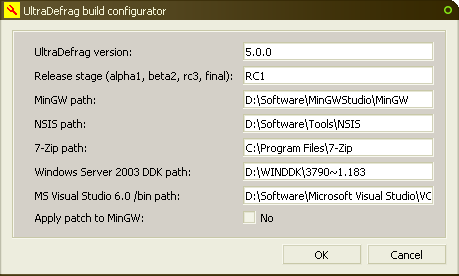
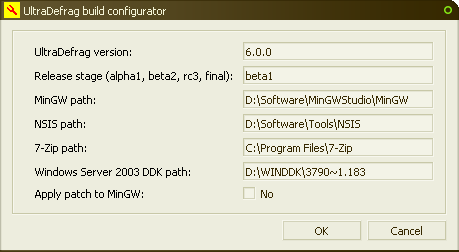
MS Visual Studio 6.0 development environment support dropped

diff --git a/src/gui/shutdown.c b/src/gui/shutdown.c
@@ -30,8 +30,7 @@
 */
 
 #include "main.h"
-
-typedef BOOLEAN (WINAPI *SET_SUSPEND_STATE_PROC)(BOOLEAN Hibernate,BOOLEAN ForceCritical,BOOLEAN DisableWakeEvent);
+#include <powrprof.h>
 
 /**
  * @brief Adjusts position of controls inside
@@ -313,8 +312,6 @@ int ShutdownOrHibernate(void)
 {
     HANDLE hToken; 
     TOKEN_PRIVILEGES tkp;
-    HMODULE hPowrProfDll;
-    SET_SUSPEND_STATE_PROC pSetSuspendState = NULL;
     BOOL result;
 
     switch(when_done_action){
@@ -354,26 +351,10 @@ int ShutdownOrHibernate(void)
     * is more reliable than SetSystemPowerState:
     * http://msdn.microsoft.com/en-us/library/aa373206%28VS.85%29.aspx
     */
-    if(when_done_action == IDM_WHEN_DONE_STANDBY || when_done_action == IDM_WHEN_DONE_HIBERNATE){
-        hPowrProfDll = LoadLibrary("powrprof.dll");
-        if(hPowrProfDll == NULL){
-            WgxDbgPrintLastError("ShutdownOrHibernate: cannot load powrprof.dll");
-        } else {
-            pSetSuspendState = (SET_SUSPEND_STATE_PROC)GetProcAddress(hPowrProfDll,"SetSuspendState");
-            if(pSetSuspendState == NULL)
-                WgxDbgPrintLastError("ShutdownOrHibernate: cannot get SetSuspendState address inside powrprof.dll");
-        }
-        if(pSetSuspendState == NULL)
-            WgxDbgPrint("Therefore SetSystemPowerState API will be used instead of SetSuspendState.\n");
-    }
-
     switch(when_done_action){
     case IDM_WHEN_DONE_STANDBY:
         /* suspend, request permission from apps and drivers */
-        if(pSetSuspendState)
-            result = pSetSuspendState(FALSE,FALSE,FALSE);
-        else
-            result = SetSystemPowerState(TRUE,FALSE);
+        result = SetSuspendState(FALSE,FALSE,FALSE);
         if(!result){
             WgxDisplayLastError(NULL,MB_OK | MB_ICONHAND,"UltraDefrag: cannot suspend the system!");
             return 6;
@@ -381,12 +362,7 @@ int ShutdownOrHibernate(void)
         break;
     case IDM_WHEN_DONE_HIBERNATE:
         /* hibernate, request permission from apps and drivers */
-        if(pSetSuspendState){
-            result = pSetSuspendState(TRUE,FALSE,FALSE);
-        } else {
-            /* the second parameter must be FALSE, dmitriar's windows xp hangs otherwise */
-            result = SetSystemPowerState(FALSE,FALSE);
-        }
+        result = SetSuspendState(TRUE,FALSE,FALSE);
         if(!result){
             WgxDisplayLastError(NULL,MB_OK | MB_ICONHAND,"UltraDefrag: cannot hibernate the computer!");
             return 7;

diff --git a/src/dll/zenwinx/ntndk.h b/src/dll/zenwinx/ntndk.h
@@ -127,32 +127,6 @@ ULONGLONG __stdcall _alldiv(ULONGLONG n, ULONGLONG d);
 ULONGLONG __stdcall _aullrem(ULONGLONG u, ULONGLONG v);
 #endif
 
-#ifdef USE_MSVC
-typedef enum _POWER_ACTION
-{
-  PowerActionNone = 0, 
-  PowerActionReserved, 
-  PowerActionSleep, 
-  PowerActionHibernate, 
-  PowerActionShutdown, 
-  PowerActionShutdownReset, 
-  PowerActionShutdownOff, 
-  PowerActionWarmEject
-} POWER_ACTION, *PPOWER_ACTION;
-typedef enum _SYSTEM_POWER_STATE
-{
-  PowerSystemUnspecified = 0, 
-  PowerSystemWorking = 1, 
-  PowerSystemSleeping1 = 2, 
-  PowerSystemSleeping2 = 3, 
-  PowerSystemSleeping3 = 4, 
-  PowerSystemHibernate = 5, 
-  PowerSystemShutdown = 6, 
-  PowerSystemMaximum = 7
-} SYSTEM_POWER_STATE, *PSYSTEM_POWER_STATE;
-#define DWORD_PTR DWORD*
-#endif
-
 /* define status codes */
 /* ifndef directives are used to prevent warnings when gcc on mingw is used */
 typedef LONG NTSTATUS;
@@ -220,12 +194,7 @@ typedef LONG NTSTATUS;
 #define STATUS_SHARING_VIOLATION      ((NTSTATUS)0xC0000043)
 #endif
 
-#if defined(__GNUC__)
 #define MAX_WAIT_INTERVAL (-0x7FFFFFFFFFFFFFFFLL)
-#else
-/* c compiler from ms visual studio 6.0 don't supports LL suffix */
-#define MAX_WAIT_INTERVAL (-0x7FFFFFFFFFFFFFFF)
-#endif
 
 /* define base nt structures */
 typedef struct _STRING

diff --git a/src/hibernate/hibernate.c b/src/hibernate/hibernate.c
@@ -6,9 +6,10 @@
 * License:       Public Domain
 */
 
-/* Revised by Dmitri Arkhangelski, 2011 */
+/* Revised by Dmitri Arkhangelski, 2011, 2012 */
 
 #include <windows.h>
+#include <powrprof.h>
 #include <stdio.h>
 #include <stdlib.h>
 #include <ctype.h>
@@ -81,8 +82,7 @@ int __cdecl main(int argc, char **argv)
             return 1;
         }
         
-        /* the second parameter must be FALSE, dmitriar's windows xp hangs otherwise */
-        if(!SetSystemPowerState(FALSE,FALSE)){ /* hibernate, request permission from apps and drivers */
+        if(!SetSuspendState(TRUE,FALSE,FALSE)){ /* hibernate, request permission from apps and drivers */
             HandleError("Cannot hibernate PC: %s!\n");
             return 1;
         }

diff --git a/src/dll/zenwinx/ntfs.h b/src/dll/zenwinx/ntfs.h
@@ -39,12 +39,7 @@
 */
 
 /* extracts low 48 bits of File Reference Number */
-/* LL suffix is not supported by MSVC 6.0 ! */
-#ifndef USE_MSVC
 #define GetMftIdFromFRN(n) ((n) & 0xffffffffffffLL)
-#else
-#define GetMftIdFromFRN(n) ((n) & 0xffffffffffff)
-#endif
 
 #ifndef TAG
 #define TAG(A, B, C, D) (ULONG)(((A)<<0) + ((B)<<8) + ((C)<<16) + ((D)<<24))

diff --git a/src/dll/wgx/wgx.h b/src/dll/wgx/wgx.h
@@ -49,12 +49,6 @@
 
 #endif /* !USE_WINDDK */
 
-#ifdef USE_MSVC
-#define DWORD_PTR DWORD
-typedef int intptr_t;
-typedef unsigned uintptr_t;
-#endif
-
 #ifndef LR_VGACOLOR
 /* this constant is not defined in winuser.h on mingw */
 #define LR_VGACOLOR         0x0080

diff --git a/src/console/udefrag.h b/src/console/udefrag.h
@@ -37,10 +37,6 @@
 #include <conio.h>
 #include <shellapi.h>
 
-#ifdef USE_MSVC
-#define DWORD_PTR DWORD
-#endif
-
 #include "../dll/wgx/wgx.h"
 #include "../dll/udefrag/udefrag.h"
 #include "../include/ultradfgver.h"
